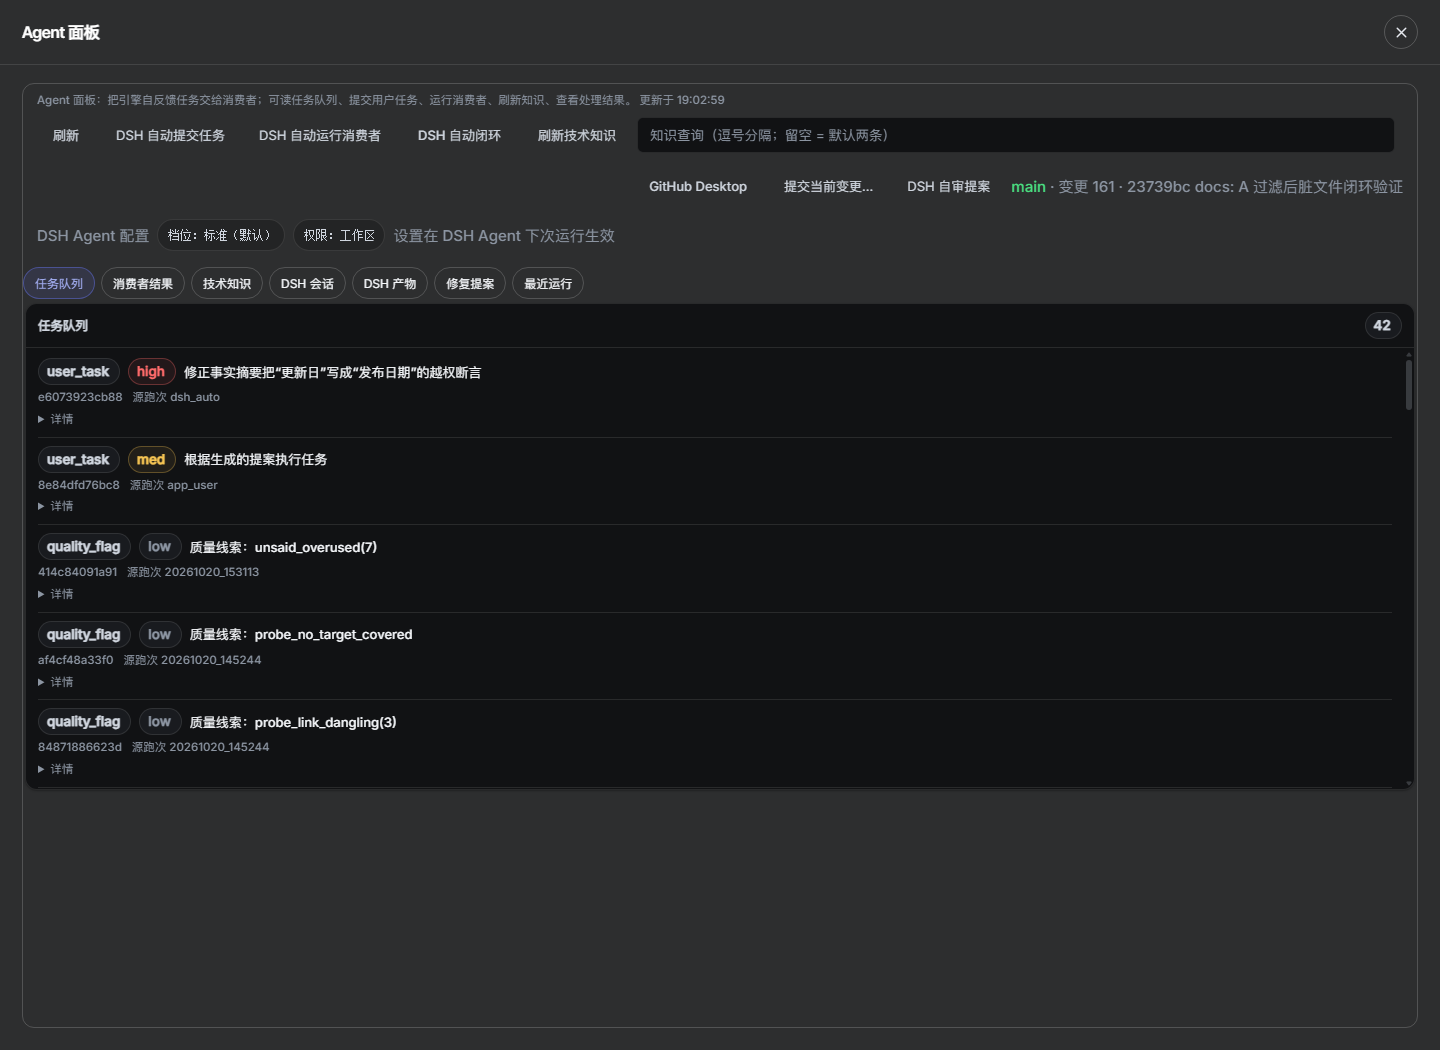
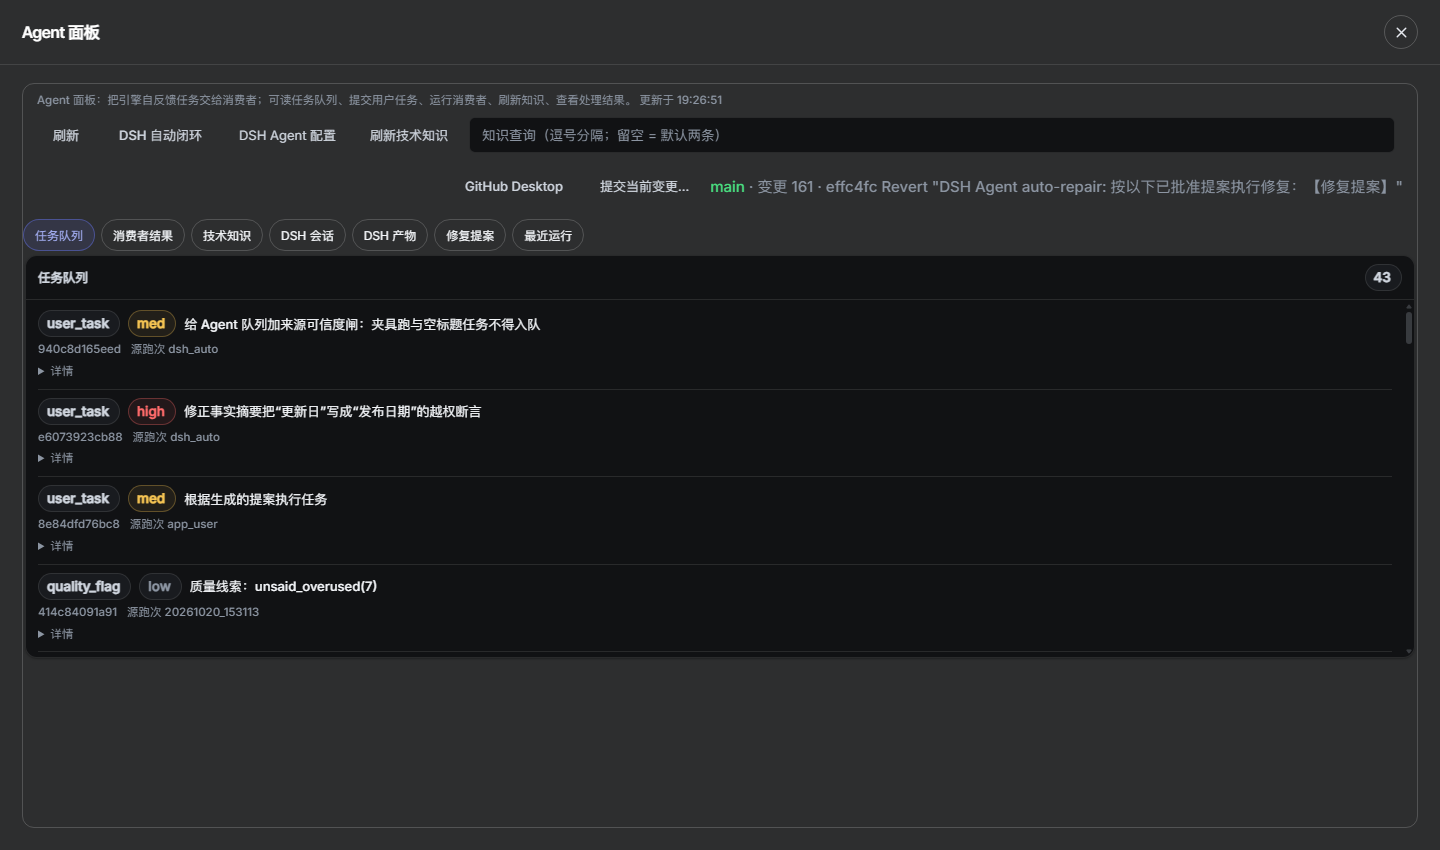
app: DSH 单按钮闭环/配置按钮/提案回退

diff --git a/dgtf_app/static/app.js b/dgtf_app/static/app.js
@@ -3193,17 +3193,25 @@ function agentRenderProps() {
   const n = document.querySelector('#agent-prop-n');
   if (n) n.textContent = String(agentProps.length);
   if (!box) return;
-  if (!agentProps.length) { box.innerHTML = agentEmpty('还没有修复提案。点「DSH 自动修复」自审生成提案。'); return; }
+  if (!agentProps.length) { box.innerHTML = agentEmpty('还没有修复提案。点「DSH 自动闭环」生成提案。'); return; }
+  const ST = {pending: '待确认', applied: '已应用', failed: '失败', rolled_back: '已回退'};
   box.innerHTML = agentProps.slice(0, 30).map(function (x) {
     const when = x.ts ? new Date(x.ts * 1000).toLocaleString('zh-CN', {hour12:false}) : '';
+    const st = String(x.status || 'pending');
+    let acts = '';
+    if (st === 'pending') {
+      acts = '<button class="ghost" data-prop-approve="' + esc(x.id) + '">我确认</button>'
+        + '<button class="ghost" data-prop-auto="' + esc(x.id) + '">DSH 自动代理</button>';
+    } else if (st === 'applied') {
+      acts = '<button class="ghost danger" data-prop-rollback="' + esc(x.id) + '">回退并撤销修复</button>';
+    }
     return '<div class="agent-item">'
       + '<div class="agent-row"><span class="chip">提案</span>'
-      + '<span class="chip">' + esc(x.status || 'pending') + '</span>'
+      + '<span class="chip st-' + esc(st) + '">' + esc(ST[st] || st) + '</span>'
       + '<span class="agent-t">' + esc((x.task || {}).title || x.id) + '</span></div>'
       + '<div class="agent-meta"><span>' + esc(x.id || '') + '</span><span>' + esc(when) + '</span></div>'
       + '<div class="agent-q">' + esc(String(x.plan || '').slice(0, 300)) + '</div>'
-      + '<div class="prop-actions"><button class="ghost" data-prop-approve="' + esc(x.id) + '">我确认</button>'
-      + '<button class="ghost" data-prop-auto="' + esc(x.id) + '">DSH 自动代理</button></div></div>';
+      + '<div class="prop-actions">' + acts + '</div></div>';
   }).join('');
 }
 
@@ -3859,6 +3867,20 @@ function init() {
   })();
   const _propBox = $('#agent-proposals');
   if (_propBox) _propBox.addEventListener('click', async (e) => {
+    const rb = e.target.closest('[data-prop-rollback]');
+    if (rb) {
+      const id = rb.dataset.propRollback;
+      if (!window.confirm('回退提案 ' + id + ' 的修复？会执行 git revert。')) return;
+      const m = document.querySelector('#agent-msg');
+      if (m) m.textContent = '正在回退提案 ' + id + '…';
+      try {
+        const r = await api('/api/dsh/proposals/' + encodeURIComponent(id) + '/rollback',
+          {method:'POST',headers:{'Content-Type':'application/json'},body:'{}'});
+        if (m) m.textContent = '提案 ' + id + '：' + ((r.proposal || {}).status || '已回退');
+        loadAgent(); loadGitStatus();
+      } catch (err) { if (m) m.textContent = '回退失败：' + err.message; }
+      return;
+    }
     const ok = e.target.closest('[data-prop-approve]');
     const auto = e.target.closest('[data-prop-auto]');
     if (!ok && !auto) return;
@@ -3872,6 +3894,12 @@ function init() {
       if (m) m.textContent = '提案 ' + id + '：' + ((r.proposal || {}).status || '');
       loadAgent(); loadGitStatus();
     } catch (err) { if (m) m.textContent = '执行失败：' + err.message; }
+  });
+  const _cfgBtn = $('#dsh-config-btn');
+  const _cfgBox = $('#dsh-config-box');
+  if (_cfgBtn && _cfgBox) _cfgBtn.addEventListener('click', () => {
+    const open = _cfgBox.classList.toggle('hidden');
+    _cfgBtn.classList.toggle('on', !open);
   });
   const _ghOpen = $('#gh-open');
   if (_ghOpen) _ghOpen.addEventListener('click', openGithubDesktop);

diff --git a/dgtf_app/static/index.html b/dgtf_app/static/index.html
@@ -250,9 +250,8 @@
       </div>
       <div class="searchbar tight">
         <button id="agent-refresh" class="ghost primary" data-tip="重新拉取任务 / 消费者结果 / 技术知识">刷新</button>
-        <button id="agent-new" class="ghost" data-tip="DSH Agent 审阅队列并自动提交一条用户任务">DSH 自动提交任务</button>
-        <button id="agent-run" class="ghost" data-tip="DSH Agent 调度消费者：处理未消费任务并生成结果">DSH 自动运行消费者</button>
         <button id="agent-auto" class="ghost primary" data-tip="DSH Agent 一次完成：提交用户任务 → 运行消费者 → 自审提案">DSH 自动闭环</button>
+        <button id="dsh-config-btn" class="ghost" data-tip="展开 DSH Agent 档位 / 工作权限配置">DSH Agent 配置</button>
         <button id="agent-know" class="ghost" data-tip="按查询刷新技术知识库（服务端 Search/Fetch，失败不阻断面板）">刷新技术知识</button>
         <span class="search-wrap">
           <input id="agent-kn-q" placeholder="知识查询（逗号分隔；留空 = 默认两条）" autocomplete="off">
@@ -262,10 +261,9 @@
       <div class="searchbar tight gh-bar">
         <button id="gh-open" class="ghost primary" data-tip="用 GitHub Desktop 打开当前仓库">GitHub Desktop</button>
         <button id="gh-commit" class="ghost" data-tip="提交当前工作区全部变更（显式确认）">提交当前变更…</button>
-        <button id="gh-auto" class="ghost" data-tip="DSH Agent 自审一条自反馈任务，先生成带时间/方案的修复提案；确认或自动代理后才改源码">DSH 自审提案</button>
         <span class="muted" id="gh-status">git 状态读取中…</span>
       </div>
-      <div class="searchbar tight dsh-agent-cfg">
+      <div class="searchbar tight dsh-agent-cfg hidden" id="dsh-config-box">
         <span class="muted">DSH Agent 配置</span>
         <select class="pill dsh-sel" id="dsh-effort" data-tip="DSH Agent 档位（推理强度）">
           <option value="">档位：标准（默认）</option>

diff --git a/dgtf_app/static/style.css b/dgtf_app/static/style.css
@@ -1449,6 +1449,7 @@ select:focus{border-color:var(--accent)}
 .gh-bar{margin-top:8px}
 .dsh-ctl{display:none}
 body.dsh-mode .dsh-ctl{display:inline-flex;align-items:center}
+#dsh-config-box.hidden{display:none}
 .dsh-sel{background:rgba(0,0,0,.22);border:1px solid var(--hair);color:var(--t2);
   border-radius:999px;padding:6px 9px;font-size:12px;font-family:var(--f-mono);outline:none}
 .gh-ok{color:var(--ok)} .gh-bad{color:var(--err)}
@@ -1456,6 +1457,9 @@ body.dsh-mode .dsh-ctl{display:inline-flex;align-items:center}
 .agent-tabs .pill{font-size:12px}
 .agent-sec.agent-tab-hidden{display:none}
 .prop-actions{display:flex;gap:6px;margin-top:6px}
+.prop-actions .danger{color:#FF7A6B}
+.chip.st-applied{color:var(--ok)}
+.chip.st-rolled_back{color:var(--warn)}
 /* 可选可编辑下拉：默认值带（默认）标注，仍可手工填任意值 */
 .dd-free{display:flex;gap:5px;align-items:center}
 .dd-free .dd-input{flex:1 1 auto;min-width:0;text-align:center}

diff --git a/dgtf_app/server.py b/dgtf_app/server.py
@@ -258,6 +258,7 @@ def _auto_commit(before: set, task: str, before_head: str = "", before_fp=None):
         if before_head and ah and ah != before_head:
             return {"committed": True, "changed": [],
                     "commit": (_git(["log", "-1", "--oneline"]).get("out") or "").strip(),
+                    "commit_hash": ah,
                     "why": "DSH Agent 已自行提交本次变更"}
         return {"committed": False, "changed": [], "why": "本次没有新增文件变更"}
     a = _git(["add", "--"] + new)
@@ -268,8 +269,10 @@ def _auto_commit(before: set, task: str, before_head: str = "", before_fp=None):
                 "why": "本次没有可提交的内容变更"}
     msg = "DSH Agent auto-repair: " + str(task)[:80]
     c = _git(["commit", "-m", msg])
+    ch = (_git(["rev-parse", "HEAD"]).get("out") or "").strip()
     return {"committed": bool(c.get("ok")), "changed": new,
             "commit": (c.get("out") or "").strip()[-200:],
+            "commit_hash": ch if c.get("ok") else "",
             "error": "" if c.get("ok") else c.get("err")}
 
 
@@ -630,6 +633,17 @@ def _auto_proposal(task_text="", title=""):
                            "status": "pending", "approver": "",
                            "events": list(res.get("events") or [])[-50:]})
     return {"ok": bool(res.get("ok")), "proposal": prop}
+
+
+def _proposal_commit_hash(prop):
+    import re as _re
+    r = ((prop or {}).get("result") or {}).get("repair") or {}
+    h = str(r.get("commit_hash") or "").strip()
+    if h:
+        return h
+    m = _re.search(r"\[[^\]]*?\s([0-9a-fA-F]{7,40})\]",
+                   str(r.get("commit") or ""))
+    return m.group(1) if m else ""
 
 
 class Handler(BaseHTTPRequestHandler):
@@ -1132,6 +1146,26 @@ class Handler(BaseHTTPRequestHandler):
                 return self._json({"ok": bool(res.get("ok")), "proposal": prop})
             except Exception as exc:
                 return self._json({"ok": False, "error": str(exc)}, 500)
+        if p.startswith("/api/dsh/proposals/") and p.endswith("/rollback"):
+            pid = p.split("/")[4]
+            prop = _get_proposal(pid)
+            if not prop:
+                return self._json({"error": "proposal not found"}, 404)
+            if prop.get("status") != "applied":
+                return self._json({"error": "只有 applied 提案可回退"}, 400)
+            h = _proposal_commit_hash(prop)
+            if not h:
+                return self._json({"error": "提案缺少提交 hash，无法自动回退"}, 400)
+            r = _git(["revert", "--no-edit", h])
+            if not r.get("ok"):
+                return self._json({"error": "git revert 失败", "detail": r.get("err")}, 500)
+            prop["status"] = "rolled_back"
+            import time as _rwt
+            prop["rolled_back_ts"] = _rwt.time()
+            prop["rollback"] = {"ok": True, "revert": (r.get("out") or "")[-200:],
+                                "commit_hash": h}
+            _save_proposal(prop)
+            return self._json({"ok": True, "proposal": prop})
         if p.startswith("/api/dsh/proposals/") and p.endswith("/approve"):
             data = self._read_json()
             pid = p.split("/")[4]

diff --git a/v1300_报告.md b/v1300_报告.md
@@ -287,3 +287,13 @@
 - 新会话统一回首页 stage-empty，清当前视图但保留 DGTF 任务历史、DSH 会话/产物与 taskDsh 附加数据。
 - 当前会话为元DGTF 时点 DSH Agent：DSH 输出附加到该 DGTF 会话日志块，session 记录 attach_task_id；taskDsh 保存 localStorage，历史任务可再次看到。
 - app 371/0；截图 docs/app_agent_auto_panel.png。
+
+## DSH 单按钮闭环 + 提案回退（2026-10-20）
+
+- Agent 面板只保留“DSH 自动闭环”；“DSH 自动提交任务/运行消费者/自审提案”按钮移除，融合进 all 流程。
+- 新增独立“DSH Agent 配置”按钮，档位/权限收进可折叠配置框，默认隐藏。
+- 修复提案库标注 pending/applied/failed/rolled_back；applied 提案出现“回退并撤销修复”。
+- 新增 POST /api/dsh/proposals/<id>/rollback：读取提案提交 hash，git revert，状态置 rolled_back。
+- 实测 prop-1792493278201 applied → rolled_back，revert commit effc4fc，仅撤销该提案文件变更。
+- /api/agent/auto stage=all 实测 200，自动任务+消费者+提案；提案/产物分别落对应库。
+- app 371/0；截图 docs/app_agent_auto_panel.png、docs/app_agent_proposals.png。
